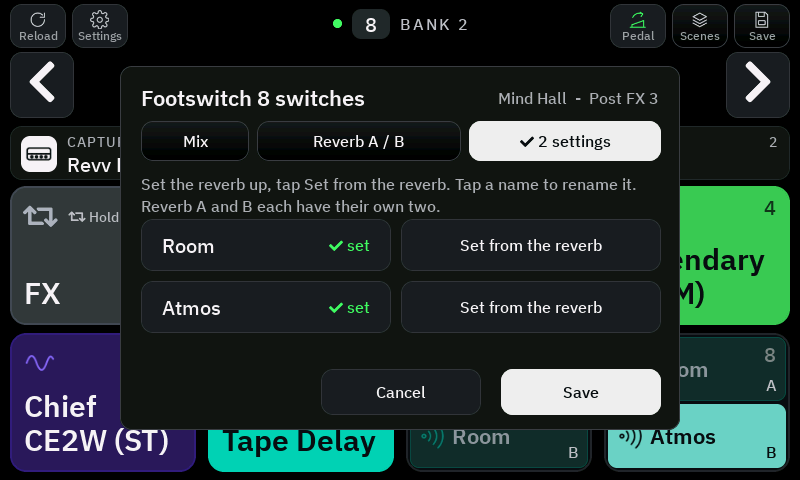
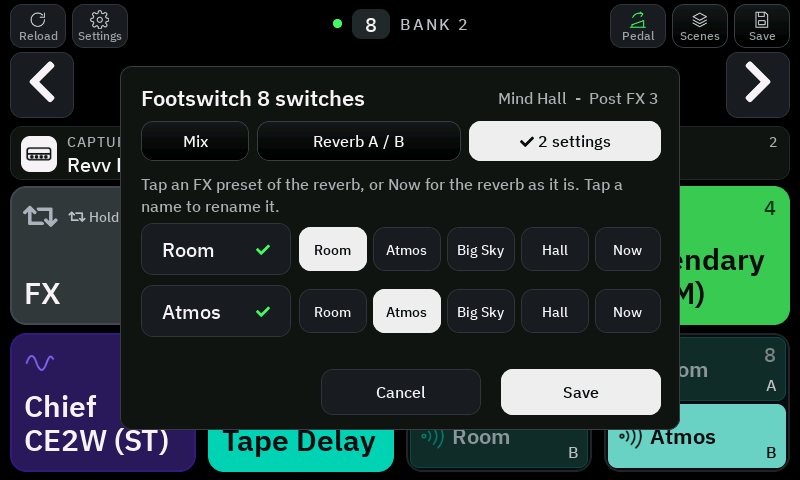
Reverb switch, two settings: take an FX preset of the reverb as a setting
The reverb dialog's 2 settings tab shows, beside each setting's name, the reverb's
FX presets (up to four) as buttons and Now (the reverb as it is set). A tap copies
the FX preset's values and name into the setting (a later change of the FX preset
leaves it as it is); the one it came from is filled. Command '-' 0x100 | setting
<< 4 | preset, also allowed from the editor (60014). The user's choice C of the drafts.

diff --git a/main/ui.c b/main/ui.c
@@ -133,6 +133,7 @@ static int s_amp_values[NANO_AMP_KNOBS];
 static uint32_t s_volume_tick, s_amp_tick;
 static lv_obj_t *s_mix_editor, *s_mix_model_label, *s_mix_info, *s_mix_slider[2], *s_mix_value[2];
 static lv_obj_t *s_mix_tab[3], *s_mix_panel[3], *s_rev_dropdown, *s_rev_edit, *s_mix_free;   // tabs: mix, A / B, two settings
+static lv_obj_t *s_rp_chip[2][5];   // per setting: the reverb's FX presets (up to four) and Now (the reverb as it is)
 static lv_obj_t *s_rp_name[2], *s_rp_state[2];   // the two settings of the reverb: name (tap = keyboard) and "set" / "not set"
 static char s_mix_model[48];
 static bool s_mix_touched;                 // Pos 1 / Pos 2 moved: SAVE writes them
@@ -2914,6 +2915,15 @@ static void show_mix_tab(int tab)
 }
 
 // The two settings of the reverb in the dialog: their names, and whether they are set.
+// A choice button: filled light while it is the one (as the editor's chosen buttons), else as the others.
+static void choice_on(lv_obj_t *btn, bool on)
+{
+    set_color_prop(btn, LV_STYLE_BG_COLOR, on ? 0xECECEC : BUTTON_BG);
+    set_color_prop(btn, LV_STYLE_BORDER_COLOR, on ? 0xECECEC : BUTTON_LINE);
+    lv_obj_t *l = lv_obj_get_child(btn, 0);
+    if (l) set_color_prop(l, LV_STYLE_TEXT_COLOR, on ? INK : TEXT);
+}
+
 static void show_rp_rows(void)
 {
     for (int n = 0; n < 2; n++) {
@@ -2922,9 +2932,25 @@ static void show_rp_rows(void)
         if (s_view.rp_names[n][0]) snprintf(text, sizeof(text), "%s", s_view.rp_names[n]);
         else snprintf(text, sizeof(text), "Setting %d", n + 1);
         lv_label_set_text(s_rp_name[n], text);
-        lv_label_set_text(s_rp_state[n], set ? LV_SYMBOL_OK " set" : "not set yet");
-        lv_obj_set_style_text_color(s_rp_state[n], lv_color_hex(set ? GREEN : MUTED), 0);
+        lv_label_set_text(s_rp_state[n], set ? LV_SYMBOL_OK : "");
+        lv_obj_set_style_text_color(s_rp_state[n], lv_color_hex(GREEN), 0);
+        // The reverb's FX presets: the one this setting was taken from filled (the same name)
+        for (int k = 0; k < 4; k++) {
+            bool shown = k < s_view.rp_fxp_count;
+            set_hidden(s_rp_chip[n][k], !shown);
+            if (!shown) continue;
+            lv_label_set_text(lv_obj_get_child(s_rp_chip[n][k], 0), s_view.rp_fxp_names[k]);
+            choice_on(s_rp_chip[n][k], set && !strcmp(s_view.rp_fxp_names[k], s_view.rp_names[n]));
+        }
     }
+}
+
+// A chip of a setting's row: an FX preset of the reverb (0-3) or Now (4, the reverb as it is set now).
+static void on_rp_chip(lv_event_t *e)
+{
+    int data = (int)(intptr_t)lv_event_get_user_data(e), n = data >> 4, k = data & 0xF;
+    if (k == 4) send('-', 1 + n);
+    else send('-', 0x100 | n << 4 | k);
 }
 
 static void on_rp_name(lv_event_t *e)
@@ -2935,11 +2961,6 @@ static void on_rp_name(lv_event_t *e)
     if (s_view.rp_names[n][0]) strlcpy(name, s_view.rp_names[n], sizeof(name));
     else snprintf(name, sizeof(name), n ? "Atmos" : "Room");
     show_rename(n ? 'r' : 'R', title, "OK", name, 15);
-}
-
-static void on_rp_capture(lv_event_t *e)
-{
-    send('-', 1 + (int)(intptr_t)lv_event_get_user_data(e));
 }
 
 static void on_mix_tab(lv_event_t *e)
@@ -2980,7 +3001,7 @@ static void on_mix_button(lv_event_t *e)
     int action = (int)(intptr_t)lv_event_get_user_data(e);
     bool settings = s_mix_tab_shown == 2;
     if (action == 1 && settings && s_view.rp_set != 3) {   // (the dialog stays open)
-        ui_show_message("Set both settings first: set the reverb up, then tap Set from the reverb.");
+        ui_show_message("Set both settings first: tap an FX preset or Now in each row.");
         return;
     }
     lv_obj_set_hidden(s_mix_editor, true);
@@ -3069,21 +3090,29 @@ static void build_mix_editor(lv_obj_t *screen)
     lv_obj_t *two_info = label(two, HINT_FONT, MUTED);
     lv_obj_set_width(two_info, 520);
     lv_label_set_long_mode(two_info, LV_LABEL_LONG_WRAP);
-    lv_label_set_text(two_info, "Set the reverb up, tap Set from the reverb. Tap a name to rename it. "
-                                "Reverb A and B each have their own two.");
+    lv_label_set_text(two_info, "Tap an FX preset of the reverb, or Now for the reverb as it is. Tap a name to rename it.");
     lv_obj_set_pos(two_info, 20, 0);
-    for (int n = 0; n < 2; n++) {
-        int y = 46 + n * 62;
-        lv_obj_t *name = button(two, 20, y, 250, 52, on_rp_name);
+    for (int n = 0; n < 2; n++) {   // (user, 2026-11-13: draft C - the FX presets as buttons beside each name)
+        int y = 50 + n * 62;
+        lv_obj_t *name = button(two, 20, y, 150, 52, on_rp_name);
         lv_obj_remove_event_cb(name, on_rp_name);
         lv_obj_add_event_cb(name, on_rp_name, LV_EVENT_CLICKED, (void *)(intptr_t)n);
         s_rp_name[n] = label(name, &ui_font_20, TEXT);
-        lv_obj_set_width(s_rp_name[n], 150);
+        lv_obj_set_width(s_rp_name[n], 96);
         lv_label_set_long_mode(s_rp_name[n], LV_LABEL_LONG_DOT);
         lv_obj_align(s_rp_name[n], LV_ALIGN_LEFT_MID, 0, 0);
-        s_rp_state[n] = label(name, HINT_FONT, MUTED);
+        s_rp_state[n] = label(name, HINT_FONT, GREEN);
         lv_obj_align(s_rp_state[n], LV_ALIGN_RIGHT_MID, 0, 0);
-        small_button(two, 280, y, 260, 52, "Set from the reverb", on_rp_capture, n);
+        for (int k = 0; k < 5; k++) {
+            lv_obj_t *chip = small_button(two, 178 + k * 74, y + 4, k < 4 ? 68 : 66, 44, k < 4 ? "" : "Now", on_rp_chip, n << 4 | k);
+            lv_obj_t *l = lv_obj_get_child(chip, 0);
+            lv_obj_set_style_text_font(l, &ui_font_14, 0);
+            lv_obj_set_width(l, 62);
+            lv_label_set_long_mode(l, LV_LABEL_LONG_DOT);
+            lv_obj_set_style_text_align(l, LV_TEXT_ALIGN_CENTER, 0);
+            lv_obj_center(l);
+            s_rp_chip[n][k] = chip;
+        }
     }
 
     // Tab 1: Pos 1 / Pos 2 of the expression assignment, played while moving
@@ -4823,6 +4852,8 @@ void ui_show_state(const nano_state_t *st, const ui_view_t *view)
     if (!lv_obj_is_hidden(s_mix_editor)) {   // the reverb dialog shows the two settings: one may just have been set or named
         s_view.rp_set = view->rp_set;
         memcpy(s_view.rp_names, view->rp_names, sizeof(s_view.rp_names));
+        s_view.rp_fxp_count = view->rp_fxp_count;
+        memcpy(s_view.rp_fxp_names, view->rp_fxp_names, sizeof(s_view.rp_fxp_names));
         show_rp_rows();
     }
     if (!lv_obj_is_hidden(s_editor)) {   // the FX editor's scene button and list say which scenes carry settings

diff --git a/main/main.c b/main/main.c
@@ -1420,6 +1420,8 @@ static bool reverb_b_used(void)
 static int wah_mode(int slot);
 static bool ab_used(int slot);
 static bool rp_used(void);
+static uint32_t s_fxp_names_type = UINT32_MAX;   // the reverb dialog's FX preset names: whose (UINT32_MAX = read again)
+static void fxp_read(uint32_t type, fxp_t list[FXP_COUNT]);
 static bool rp_set(int n);
 static int rp_pair(void);
 static void rp_match(int slot, const float *values, int count);
@@ -1478,6 +1480,20 @@ static void show(void)
     for (int n = 0; n < 2; n++) {
         if (rp_set(n)) view.rp_set |= (uint8_t)(1u << n);
         if (rp >= 0) strlcpy(view.rp_names[n], s_rp[rp].name[n], sizeof(view.rp_names[n]));
+    }
+    {   // the FX presets of the reverb in the slot, to take as one of its two settings (read when that reverb changes)
+        static char names[FXP_COUNT][16];
+        static int count;
+        uint32_t type = s_mix.slot >= 0 ? s_state.fx_type[s_mix.slot] : 0;
+        if (type != s_fxp_names_type) {
+            static fxp_t list[FXP_COUNT];   // (not on the stack)
+            fxp_read(type, list);
+            count = 0;
+            for (int i = 0; i < FXP_COUNT; i++) if (list[i].name[0]) strlcpy(names[count++], list[i].name, sizeof(names[0]));
+            s_fxp_names_type = type;
+        }
+        view.rp_fxp_count = (uint8_t)count;
+        memcpy(view.rp_fxp_names, names, sizeof(view.rp_fxp_names));
     }
     for (int slot = 0; slot < NANO_FX_SLOTS && s_exp.known; slot++) {   // effects the Nano's pedal moves or switches
         if (s_exp.ranges[NANO_EXP_PRE1 + slot].on) view.exp_amount |= (uint8_t)(1u << slot);
@@ -2394,6 +2410,7 @@ static bool fxp_unpack(const uint8_t *in, size_t len, fxp_t list[FXP_COUNT])
 // Writes a model's list (packed), or removes the key when no place is used.
 static esp_err_t fxp_write(nvs_handle_t nvs, const char *key, const fxp_t list[FXP_COUNT])
 {
+    s_fxp_names_type = UINT32_MAX;   // (the reverb dialog's list of FX presets may have changed)
     static uint8_t packed[FXP_PACKED_MAX];
     size_t n = fxp_pack(list, packed);
     if (n <= 1) {
@@ -3611,6 +3628,39 @@ static void rp_values(int slot, const float *values, int count)
     show();
 }
 
+// An FX preset of the reverb (its n-th with a name, as the dialog lists them) becomes setting n: its values and
+// name are copied - a later change of the FX preset leaves the setting as it is.
+static void rp_from_fxp(int n, int index)
+{
+    int slot = s_mix.slot;
+    if (n < 0 || n > 1 || slot < 0 || !s_state.fx_type[slot]) return;
+    static fxp_t list[FXP_COUNT];
+    fxp_read(s_state.fx_type[slot], list);
+    const fxp_t *f = NULL;
+    for (int i = 0, k = 0; i < FXP_COUNT && !f; i++) {
+        if (list[i].name[0] && k++ == index) f = &list[i];
+    }
+    if (!f || !f->count) {
+        ui_show_message("This FX preset is gone - open the dialog again.");
+        return;
+    }
+    int p = rp_pair_make();
+    if (p < 0) return;
+    rp_t *rp = &s_rp[p];
+    int count = f->count > NANO_MAX_PARAMS ? NANO_MAX_PARAMS : f->count;
+    rp->count[n] = (uint8_t)count;
+    memcpy(rp->values[n], f->values, sizeof(rp->values[n][0]) * (size_t)count);
+    strlcpy(rp->name[n], f->name, sizeof(rp->name[n]));
+    rp_store(p);
+    s_rp_active[p] = RP_NEITHER;   // (the reverb plays what it played: which setting that is, the next read says)
+    rp_check_later(300);
+    ESP_LOGI(TAG, "Reverb setting %d = FX preset \"%s\" of %s (%d values)", n + 1, rp->name[n], nano_fx_name(rp->type), count);
+    char text[64];
+    snprintf(text, sizeof(text), "\"%s\" is setting %d.", rp->name[n], n + 1);
+    ui_show_message(text);
+    show();
+}
+
 // Text from the keyboard: "<1 / 2><name>" - the name of a setting.
 static void rp_name(const char *text)
 {
@@ -4510,6 +4560,7 @@ static void handle_command(char c, int arg)
         break;
     case '-':   // reverb dialog: 1 / 2 = set that setting from the reverb, 16 / 17 = the switch uses the settings: no / yes
         if (arg == 1 || arg == 2) rp_capture(arg - 1);
+        else if (arg & 0x100) rp_from_fxp((arg >> 4) & 1, arg & 3);   // 0x100 | setting << 4 | FX preset (0-3)
         else if (arg == 16 || arg == 17) rp_use(arg == 17);
         else if (arg == 48) rp_check();
 #ifdef NANO_RPTEST
@@ -5138,7 +5189,7 @@ static void handle_message(uint32_t type, const uint8_t *payload, size_t len)
 //                                                  u24, filled row i8, caption, name, note, row 1, row 2 (each length
 //                                                  u8 + text) }; 60013 see tiles_settings
 //   60014 app: { command u8, arg i32 }          -> 60015 { ok u8 }   (the screen's commands the editor may give:
-//                                                  'w' ']' 'A' '>' 'B' 'k', '-' 1 / 2 / 16 / 17)
+//                                                  'w' ']' 'A' '>' 'B' 'k', '-' 1 / 2 / 16 / 17 / 0x100 | setting << 4 | FX preset)
 //   60016 app: { model u32 }                    -> 60017 { model u32, its FX presets as stored (FXP_COUNT x fxp_t) }
 //   60018 app: which models have FX presets     -> 60019 { count u16, models u32 ... }
 //   60020 app: { model u32, FX presets }        -> 60021 { ok u8 }   (all empty: removed)
@@ -5345,7 +5396,7 @@ static bool editor_command(char c, int arg)
     switch (c) {
     case 'w': return (arg & 0xFF) >= 1 && (arg & 0xFF) <= FOOTSWITCH_COUNT && !(arg & ~(0xFF | UI_SWITCH_HOLD));
     case ']': case 'A': case '>': case 'B': case 'k': return true;
-    case '-': return arg == 1 || arg == 2 || arg == 16 || arg == 17;
+    case '-': return arg == 1 || arg == 2 || arg == 16 || arg == 17 || (arg & ~0x13) == 0x100;   // (0x100: an FX preset as setting)
     default: return false;
     }
 }

diff --git a/tools/screenshots/shots.c b/tools/screenshots/shots.c
@@ -274,6 +274,11 @@ int main(void)
     view.rp_active = 1;
     snprintf(view.rp_names[0], sizeof(view.rp_names[0]), "Room");
     snprintf(view.rp_names[1], sizeof(view.rp_names[1]), "Atmos");
+    {   // the reverb's FX presets: the two settings were taken from Room and Atmos
+        static const char *const fxp[4] = { "Room", "Atmos", "Big Sky", "Hall" };
+        view.rp_fxp_count = 4;
+        for (int i = 0; i < 4; i++) snprintf(view.rp_fxp_names[i], sizeof(view.rp_fxp_names[i]), "%s", fxp[i]);
+    }
     ui_show_state(&st, &view);
     shot("40-pedal-view-off");
     st.fx_on[2] = !st.fx_on[2];
@@ -354,6 +359,11 @@ int main(void)
     view.rp_active = 1;
     snprintf(view.rp_names[0], sizeof(view.rp_names[0]), "Room");
     snprintf(view.rp_names[1], sizeof(view.rp_names[1]), "Atmos");
+    {   // the reverb's FX presets: the two settings were taken from Room and Atmos
+        static const char *const fxp[4] = { "Room", "Atmos", "Big Sky", "Hall" };
+        view.rp_fxp_count = 4;
+        for (int i = 0; i < 4; i++) snprintf(view.rp_fxp_names[i], sizeof(view.rp_fxp_names[i]), "%s", fxp[i]);
+    }
     ui_show_state(&st, &view);
     shot("37-reverb-settings-tile");
     open_mix_editor();

diff --git a/main/ui.h b/main/ui.h
@@ -120,6 +120,8 @@ typedef struct {
     uint8_t rp_active;   // 0 / 1: the setting that is on, 2: the reverb is set to neither (the next press: setting 1)
     uint8_t rp_set;      // bit n: setting n + 1 is set (for the reverb that is in the slot)
     char rp_names[2][16];
+    uint8_t rp_fxp_count;   // the FX presets of the reverb in the slot (to take as a setting), their names
+    char rp_fxp_names[4][16];
     uint8_t exp_amount;  // bit n: the Nano's expression pedal moves the Amount of the effect in slot n in this preset
     uint8_t exp_switch;  // bit n: ... and switches it on / off
     uint8_t bank_presets[6];   // own bank: preset per switch 3-8, 0 = empty
